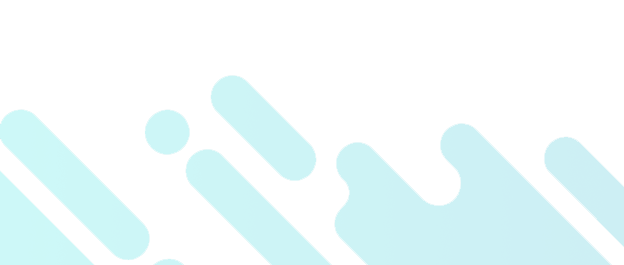
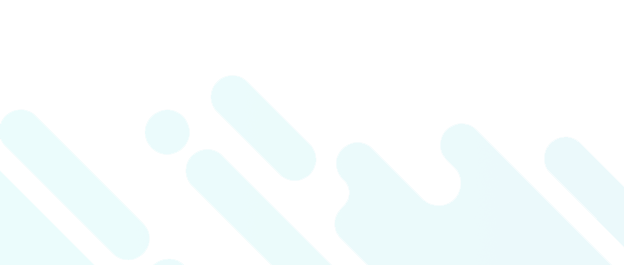
Simplify design

diff --git a/scss/index.scss b/scss/index.scss
@@ -29,7 +29,6 @@ body {
     > .wrap {
       width: 100%;
       height: 500px;
-      background-image: url(../assets/folk-pattern.png);
       &:after {
         width: 100%;
         position: absolute;
@@ -38,10 +37,8 @@ body {
         left: 0;
         bottom: 0;
         right: 0;
-        background-image: url(../assets/left.png), url(../assets/right.png);
-        background-position: top left, top right;
-        background-repeat: no-repeat, no-repeat;
-        background-size: auto;
+        background-image: url(../assets/folk-pattern.png);
+        opacity: .2;
       }
       > .appbar {
         width: 100%;
@@ -124,6 +121,8 @@ body {
           position: relative;
           overflow: hidden;
           transition: all 0.5s;
+          box-shadow: none;
+          background: linear-gradient(to bottom, rgba(255, 255, 255, 0.1), rgb(255, 255, 255), #98e9ec49);
           &:hover {
             transform: scale(1.1);
             background: #fff !important;
@@ -155,40 +154,14 @@ body {
             left: 0;
             bottom: 0;
             right: 0;
-            opacity: 0.5;
+            opacity: 0.5;            
+            background-image: url(../assets/bottom.png);
+            background-position: bottom left;
+            background-repeat: no-repeat;
+            background-size: 100%;
           }
         }
       }
-    }
-  }
-  
-  #material {
-    background: linear-gradient(to bottom, transparent, #fff, #e7f7f7);
-    &:before {
-      background-image: url(../assets/material.png), url(../assets/bottom.png);
-      background-position: top right, bottom left;
-      background-repeat: no-repeat, no-repeat;
-      background-size: 150px, 100%;
-    }
-  }
-  
-  #custom {
-    background: linear-gradient(to bottom, transparent, #fff, #b7e7ff);
-    &:before {
-      background-image: url(../assets/custom.png), url(../assets/bottom.png);
-      background-position: top right, bottom left;
-      background-repeat: no-repeat, no-repeat;
-      background-size: 150px, 100%;
-    }
-  }
-  
-  #limitless {
-    background: linear-gradient(to bottom, transparent, #fff, #ebffed);
-    &:before {
-      background-image: url(../assets/rocket.png), url(../assets/bottom.png);
-      background-position: top right, bottom left;
-      background-repeat: no-repeat, no-repeat;
-      background-size: 150px, 100%;
     }
   }
   
@@ -199,7 +172,6 @@ body {
     position: relative;
     top: 100px;
     border-top: 7px solid #fafafa;
-    background-image: url(../assets/paper.png);
     background-position: top right;
     &:before {
       position: absolute;
@@ -210,28 +182,6 @@ body {
       right: 0;
       pointer-events: none;
       background: linear-gradient(to bottom, transparent, white);
-    }
-    > .clips {
-      width: 80%;
-      height: 60px;
-      background-size: auto 100%;
-      position: absolute;
-      left: 0;
-      right: 0;
-      margin-left: auto;
-      margin-right: auto;
-      top: -25px;
-      > div {
-        width: 15px;
-        height: 40px;
-        background-image: url(../assets/clips.png);
-        background-size: auto 100%;
-        background-repeat: no-repeat;
-        display: inline-block;
-        &:nth-child(2) {
-          float: right;
-        }
-      }
     }
     > .instructions {
       width: calc(100% - 200px);
@@ -272,12 +222,7 @@ body {
           height: auto;
           padding: 15px;
           box-sizing: border-box;
-          background: linear-gradient(
-            to bottom,
-            rgba(255, 255, 255, 0.1),
-            #fff,
-            #98e9ec
-          );
+          background: linear-gradient(to bottom, rgba(255, 255, 255, 0.1), #fff, #98e9ecb4);
           display: inline-block;
           margin: 5px;
           transition: width 0.1s;
@@ -287,16 +232,6 @@ body {
           transition: all 0.3s;
           z-index: 1;
           overflow: hidden;
-          &:after {
-            position: absolute;
-            content: "";
-            top: 0;
-            left: 0;
-            bottom: 0;
-            right: 0;
-            opacity: 0.2;
-            background-image: url(../assets/folk-pattern.png);
-          }
           &:before {
             position: absolute;
             content: "";

diff --git a/css/index.css b/css/index.css
@@ -32,7 +32,6 @@ body {
 #pageTop > .wrap {
   width: 100%;
   height: 500px;
-  background-image: url(../assets/folk-pattern.png);
 }
 
 #pageTop > .wrap:after {
@@ -43,10 +42,8 @@ body {
   left: 0;
   bottom: 0;
   right: 0;
-  background-image: url(../assets/left.png), url(../assets/right.png);
-  background-position: top left, top right;
-  background-repeat: no-repeat, no-repeat;
-  background-size: auto;
+  background-image: url(../assets/folk-pattern.png);
+  opacity: .2;
 }
 
 #pageTop > .wrap > .appbar {
@@ -142,6 +139,8 @@ body {
   position: relative;
   overflow: hidden;
   transition: all 0.5s;
+  box-shadow: none;
+  background: linear-gradient(to bottom, rgba(255, 255, 255, 0.1), white, #98e9ec49);
 }
 
 #cards > .wrap .col-33 .card:hover {
@@ -180,39 +179,10 @@ body {
   bottom: 0;
   right: 0;
   opacity: 0.5;
-}
-
-#material {
-  background: linear-gradient(to bottom, transparent, #fff, #e7f7f7);
-}
-
-#material:before {
-  background-image: url(../assets/material.png), url(../assets/bottom.png);
-  background-position: top right, bottom left;
-  background-repeat: no-repeat, no-repeat;
-  background-size: 150px, 100%;
-}
-
-#custom {
-  background: linear-gradient(to bottom, transparent, #fff, #b7e7ff);
-}
-
-#custom:before {
-  background-image: url(../assets/custom.png), url(../assets/bottom.png);
-  background-position: top right, bottom left;
-  background-repeat: no-repeat, no-repeat;
-  background-size: 150px, 100%;
-}
-
-#limitless {
-  background: linear-gradient(to bottom, transparent, #fff, #ebffed);
-}
-
-#limitless:before {
-  background-image: url(../assets/rocket.png), url(../assets/bottom.png);
-  background-position: top right, bottom left;
-  background-repeat: no-repeat, no-repeat;
-  background-size: 150px, 100%;
+  background-image: url(../assets/bottom.png);
+  background-position: bottom left;
+  background-repeat: no-repeat;
+  background-size: 100%;
 }
 
 #about {
@@ -222,7 +192,6 @@ body {
   position: relative;
   top: 100px;
   border-top: 7px solid #fafafa;
-  background-image: url(../assets/paper.png);
   background-position: top right;
 }
 
@@ -235,31 +204,6 @@ body {
   right: 0;
   pointer-events: none;
   background: linear-gradient(to bottom, transparent, white);
-}
-
-#about > .clips {
-  width: 80%;
-  height: 60px;
-  background-size: auto 100%;
-  position: absolute;
-  left: 0;
-  right: 0;
-  margin-left: auto;
-  margin-right: auto;
-  top: -25px;
-}
-
-#about > .clips > div {
-  width: 15px;
-  height: 40px;
-  background-image: url(../assets/clips.png);
-  background-size: auto 100%;
-  background-repeat: no-repeat;
-  display: inline-block;
-}
-
-#about > .clips > div:nth-child(2) {
-  float: right;
 }
 
 #about > .instructions {
@@ -308,7 +252,7 @@ body {
   height: auto;
   padding: 15px;
   box-sizing: border-box;
-  background: linear-gradient(to bottom, rgba(255, 255, 255, 0.1), #fff, #98e9ec);
+  background: linear-gradient(to bottom, rgba(255, 255, 255, 0.1), #fff, #98e9ecb4);
   display: inline-block;
   margin: 5px;
   transition: width 0.1s;
@@ -318,17 +262,6 @@ body {
   transition: all 0.3s;
   z-index: 1;
   overflow: hidden;
-}
-
-#about > .instructions > .wrap > .info:after {
-  position: absolute;
-  content: "";
-  top: 0;
-  left: 0;
-  bottom: 0;
-  right: 0;
-  opacity: 0.2;
-  background-image: url(../assets/folk-pattern.png);
 }
 
 #about > .instructions > .wrap > .info:before {

diff --git a/index.html b/index.html
@@ -79,10 +79,6 @@
       </div>
     </section>
     <section id="about">
-      <div class="clips">
-        <div></div>
-        <div></div>
-      </div>
       <div class="instructions">
         <div class="h-3"><i class="material-icons">how_to_reg</i></div>
         <h4 class="h-4">Getting started</h4>
